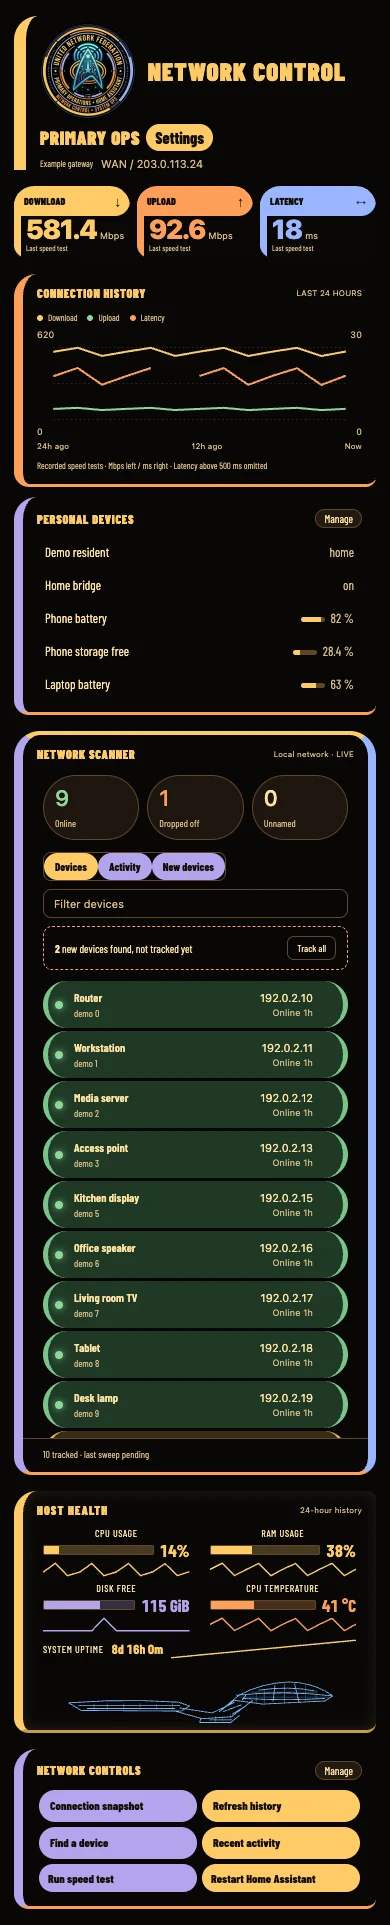
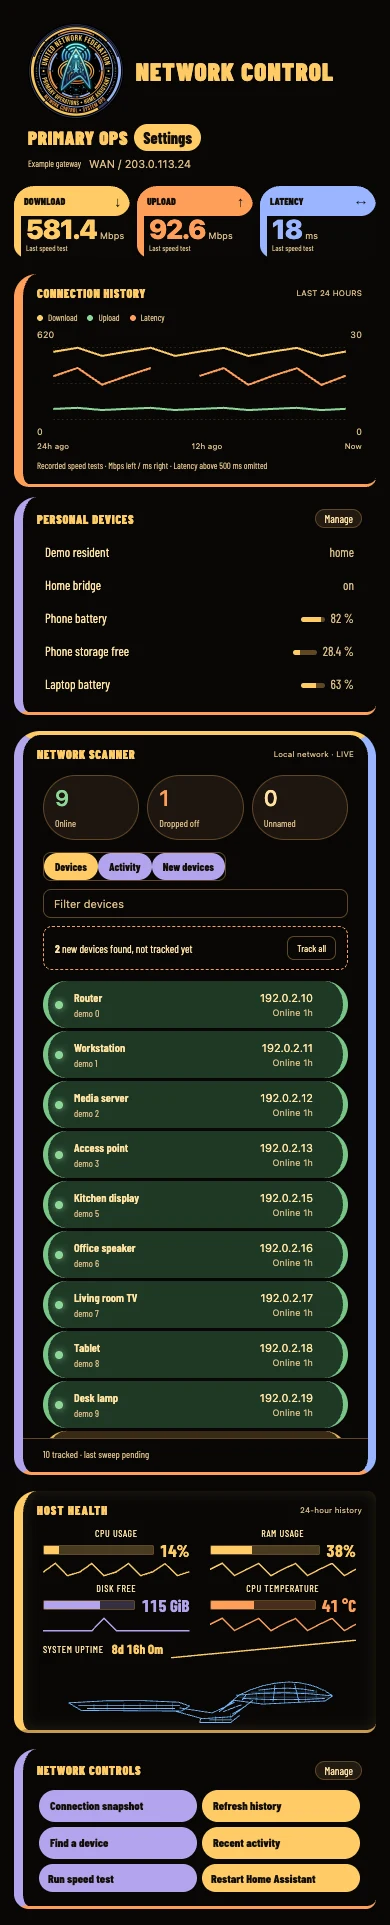
Remove the Star Trek header accent behind the Federation badge

Changed region(s): [[0.0308, 0.0, 0.8923, 0.0935]]

diff --git a/custom_components/network_control/www/network-control.css b/custom_components/network_control/www/network-control.css
@@ -1394,8 +1394,7 @@ summary {
 }
 .shell[data-theme="trek"] header {
   padding:0 8px 0 14px;
-  border-inline-start:12px solid var(--yanke-accent);
-  border-radius:24px 3px 3px 0;
+  border-inline-start:0;
 }
 .shell[data-theme="trek"] #dashboard-title {
   margin-inline-start:0;

diff --git a/custom_components/network_control/__init__.py b/custom_components/network_control/__init__.py
@@ -13,7 +13,7 @@ DOMAIN = "network_control"
 CONFIG_SCHEMA = cv.config_entry_only_config_schema(DOMAIN)
 PLATFORMS = [Platform.SENSOR, Platform.BUTTON, Platform.EVENT]
 CARD_PATH = "/network_control/network-control.js"
-CARD_URL = f"{CARD_PATH}?v=1.18.0"
+CARD_URL = f"{CARD_PATH}?v=1.18.1"
 
 
 async def async_setup(hass, config):
